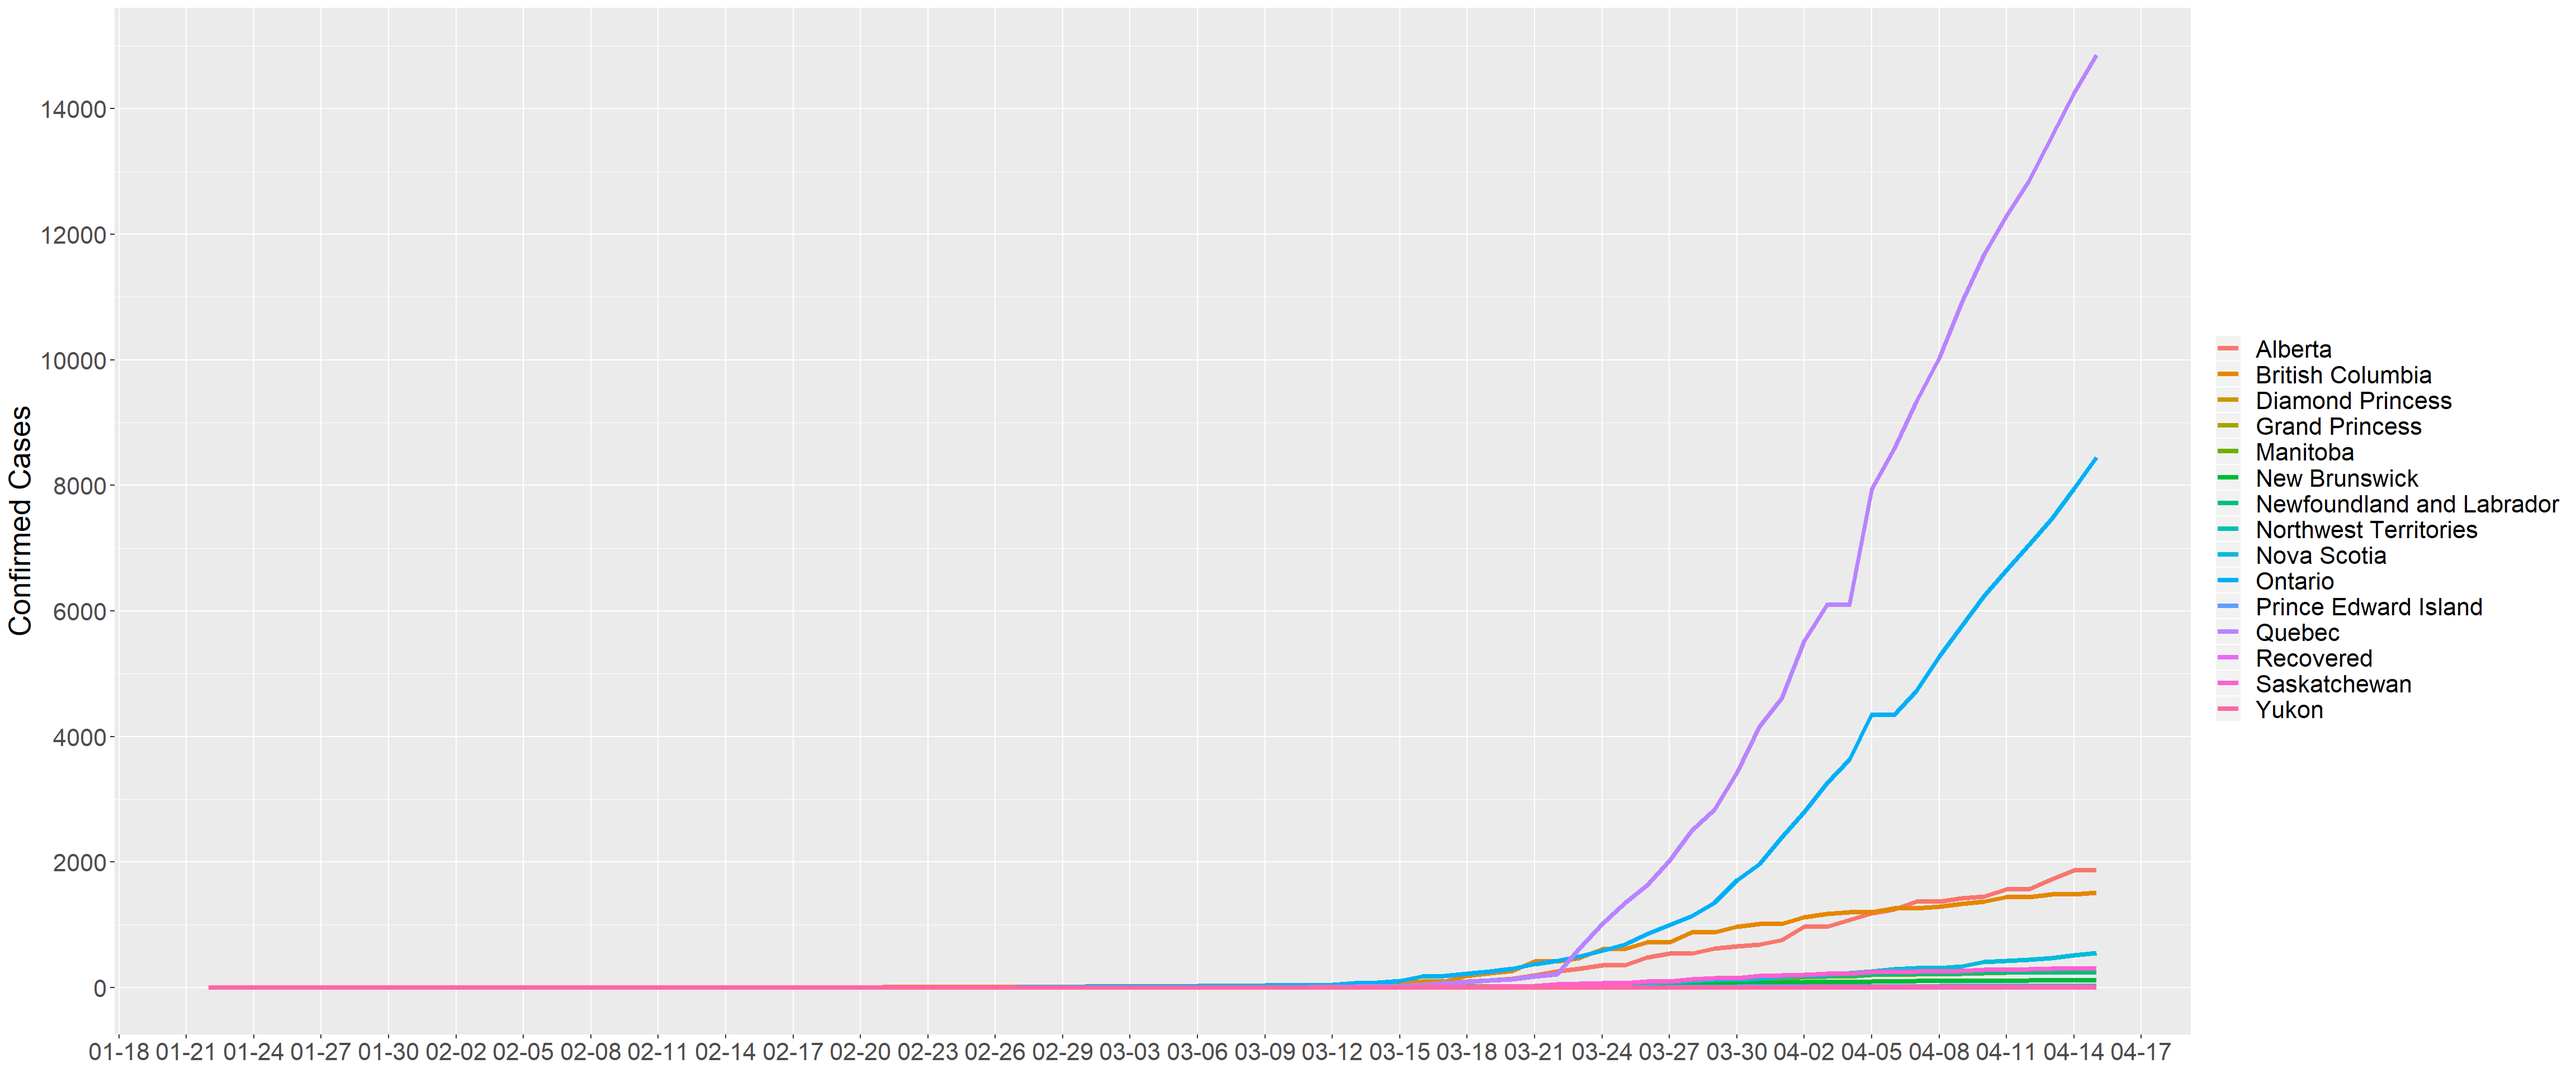
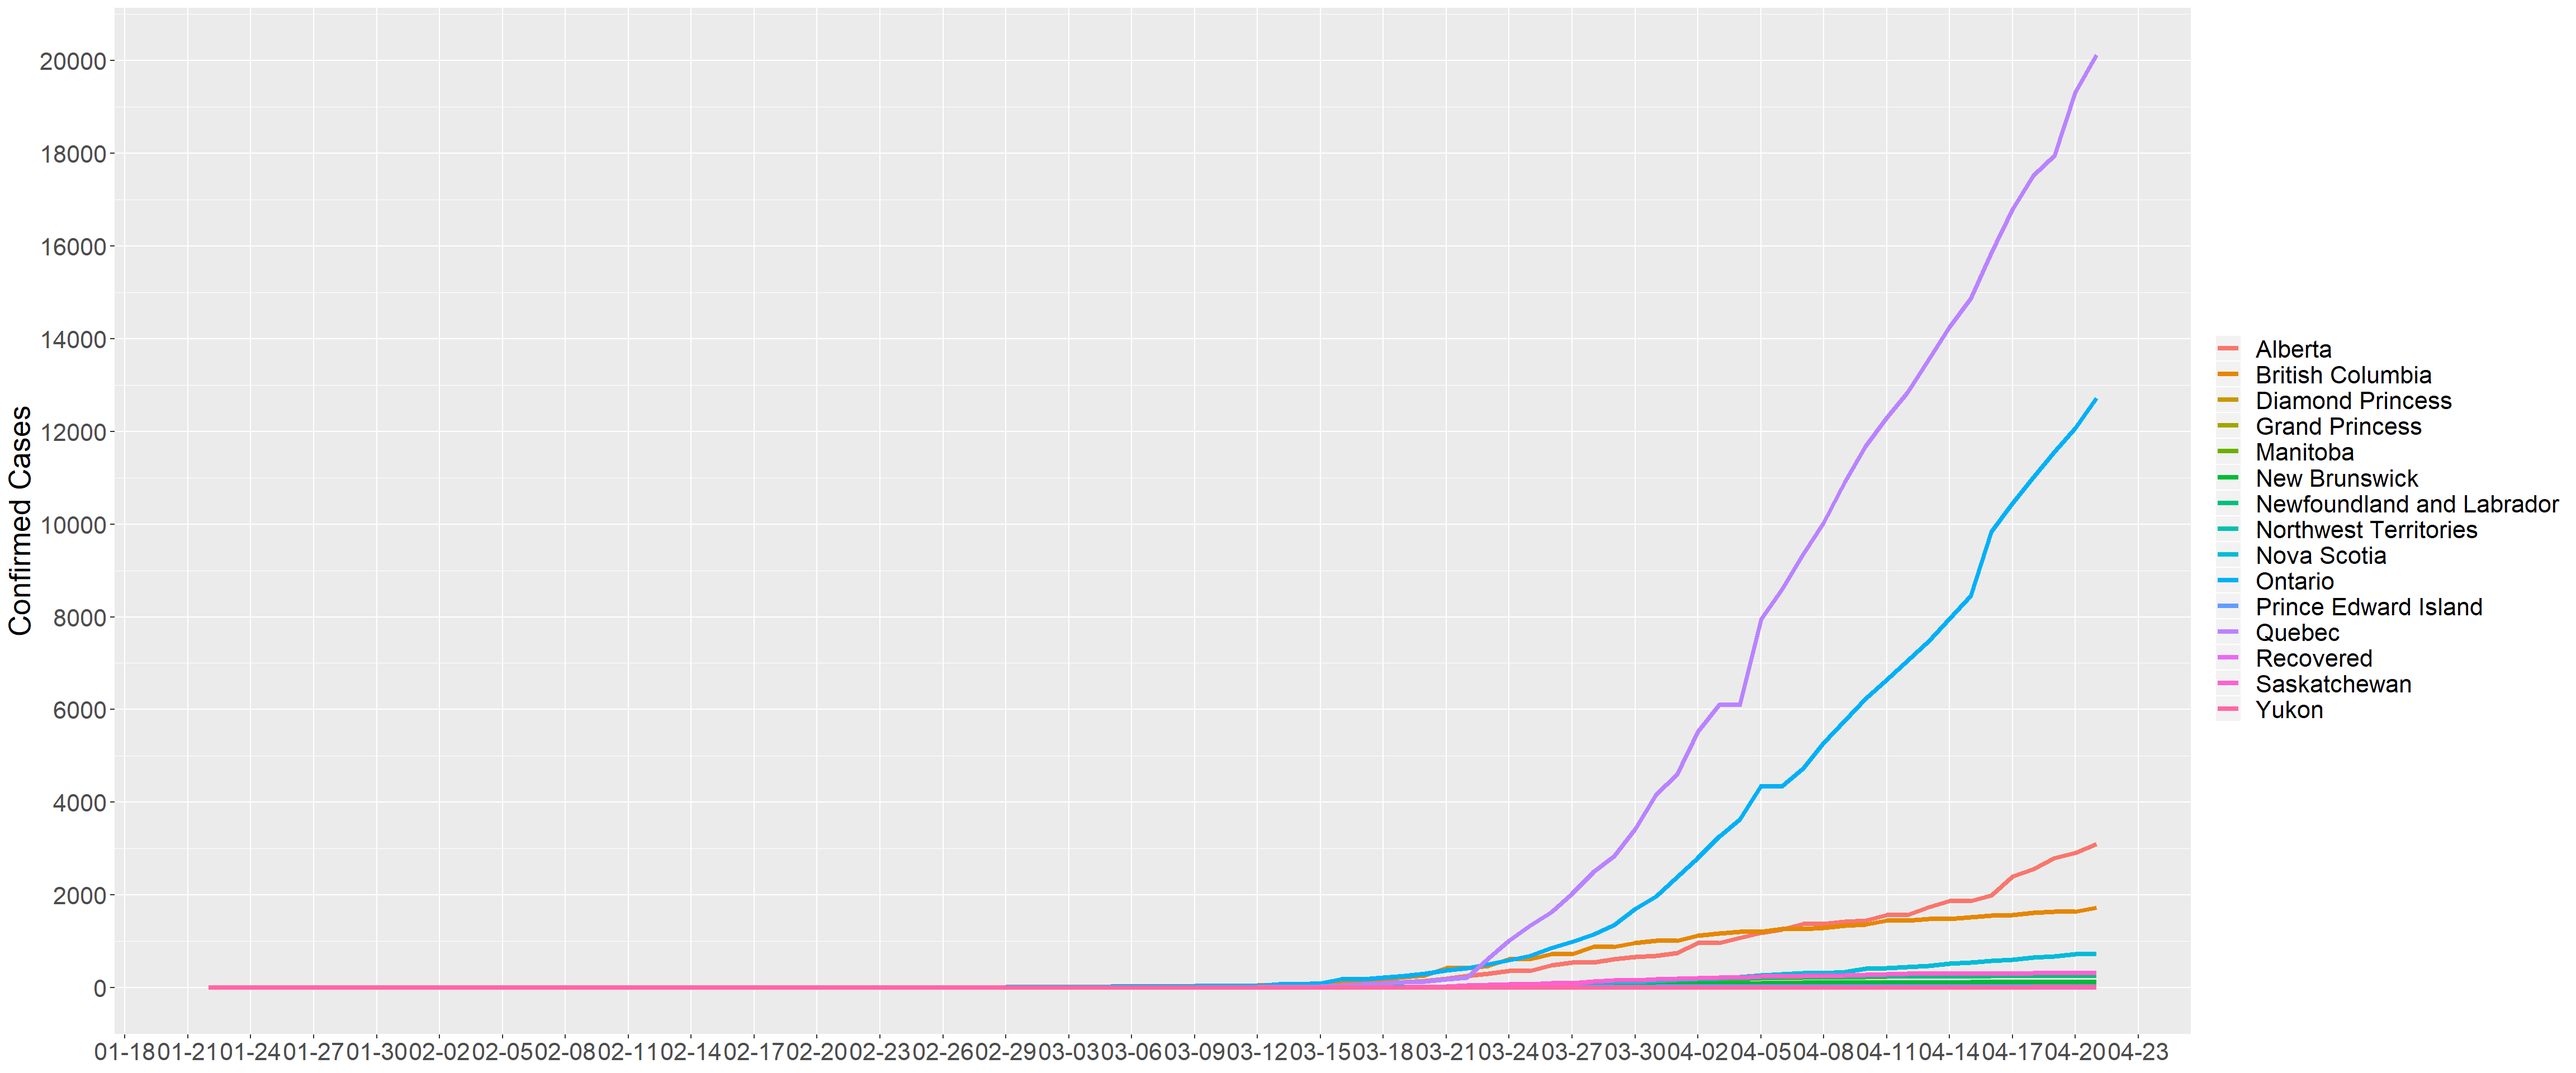
updates April 21

diff --git a/projects/COVID-19-EDA/COVID-19-EDA.html b/projects/COVID-19-EDA/COVID-19-EDA.html
@@ -10,7 +10,7 @@
 
 <meta name="author" content="Iris Jiang" />
 
-<meta name="date" content="2020-04-15" />
+<meta name="date" content="2020-04-21" />
 
 <title>COVID-19 Exploratory Data Analysis</title>
 
@@ -83,7 +83,7 @@ $(document).ready(function () {
     
     <div id="postamble" data-toggle="wy-nav-shift" class="status">
               <p class="author"><span class="glyphicon glyphicon-user"></span> Iris Jiang</p>
-                  <p class="date"><span class="glyphicon glyphicon-calendar"></span> April 15, 2020</p>
+                  <p class="date"><span class="glyphicon glyphicon-calendar"></span> April 21, 2020</p>
         </div>
 </div>
 
